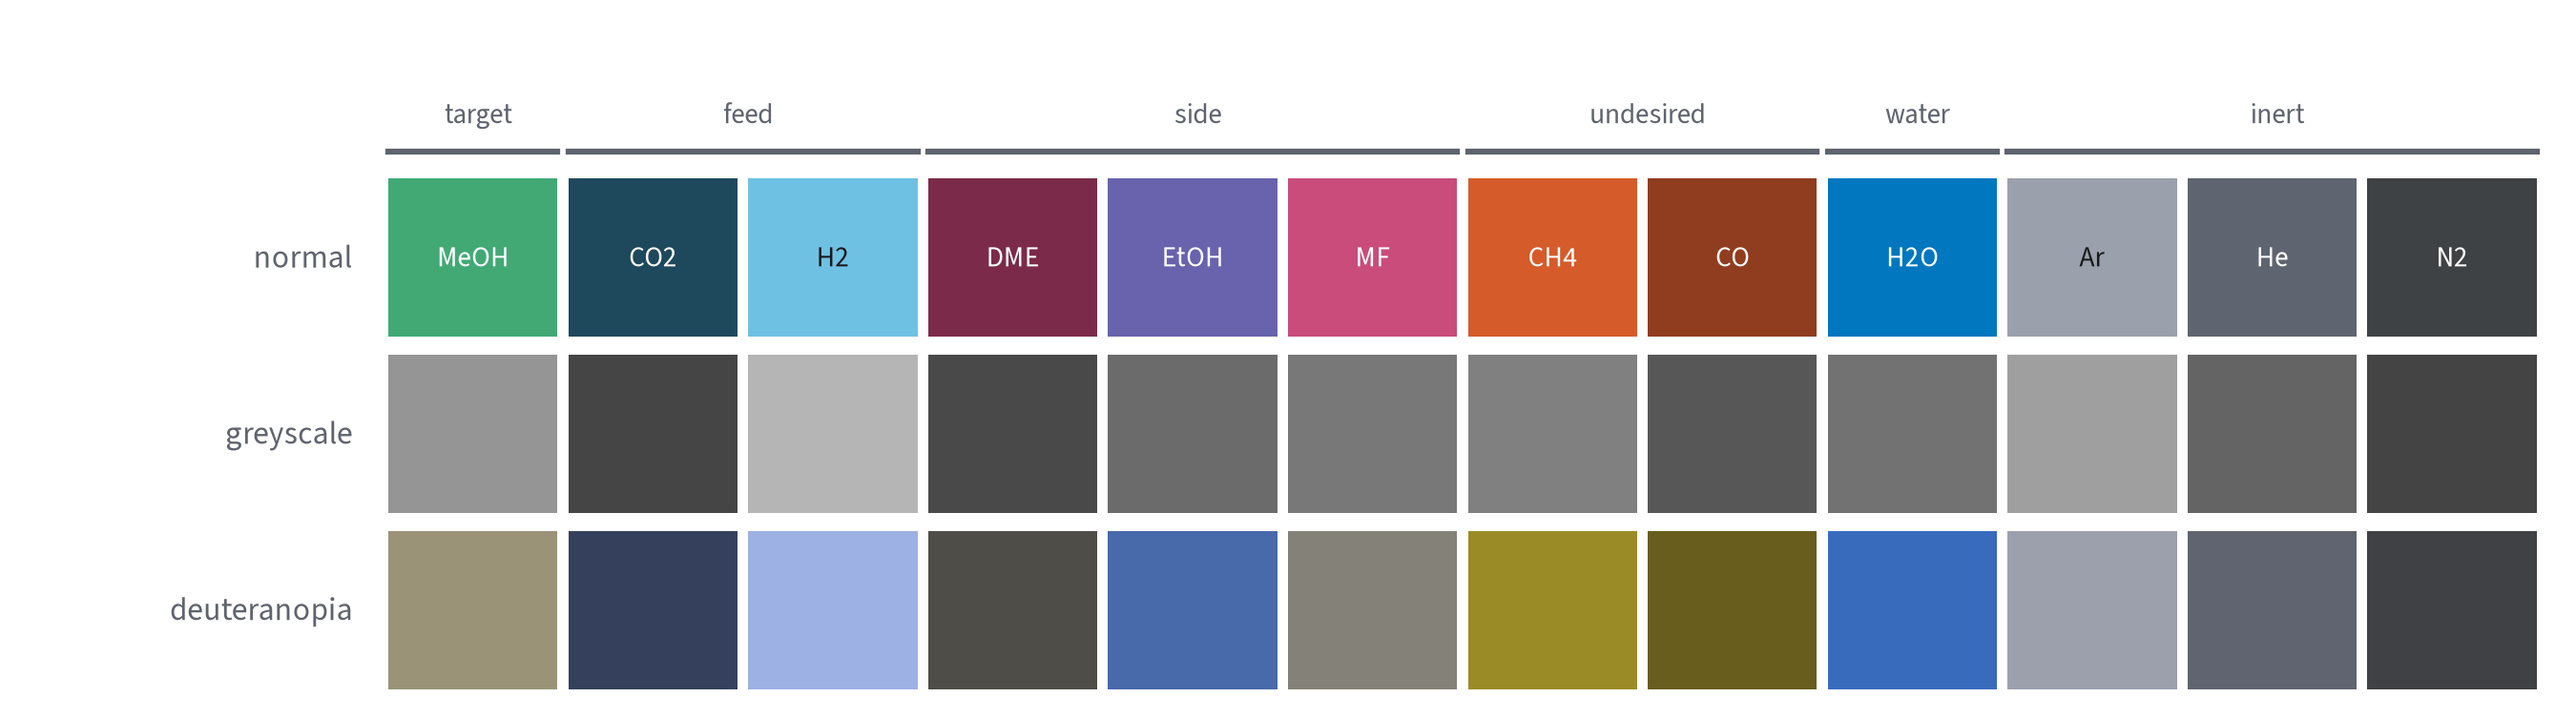
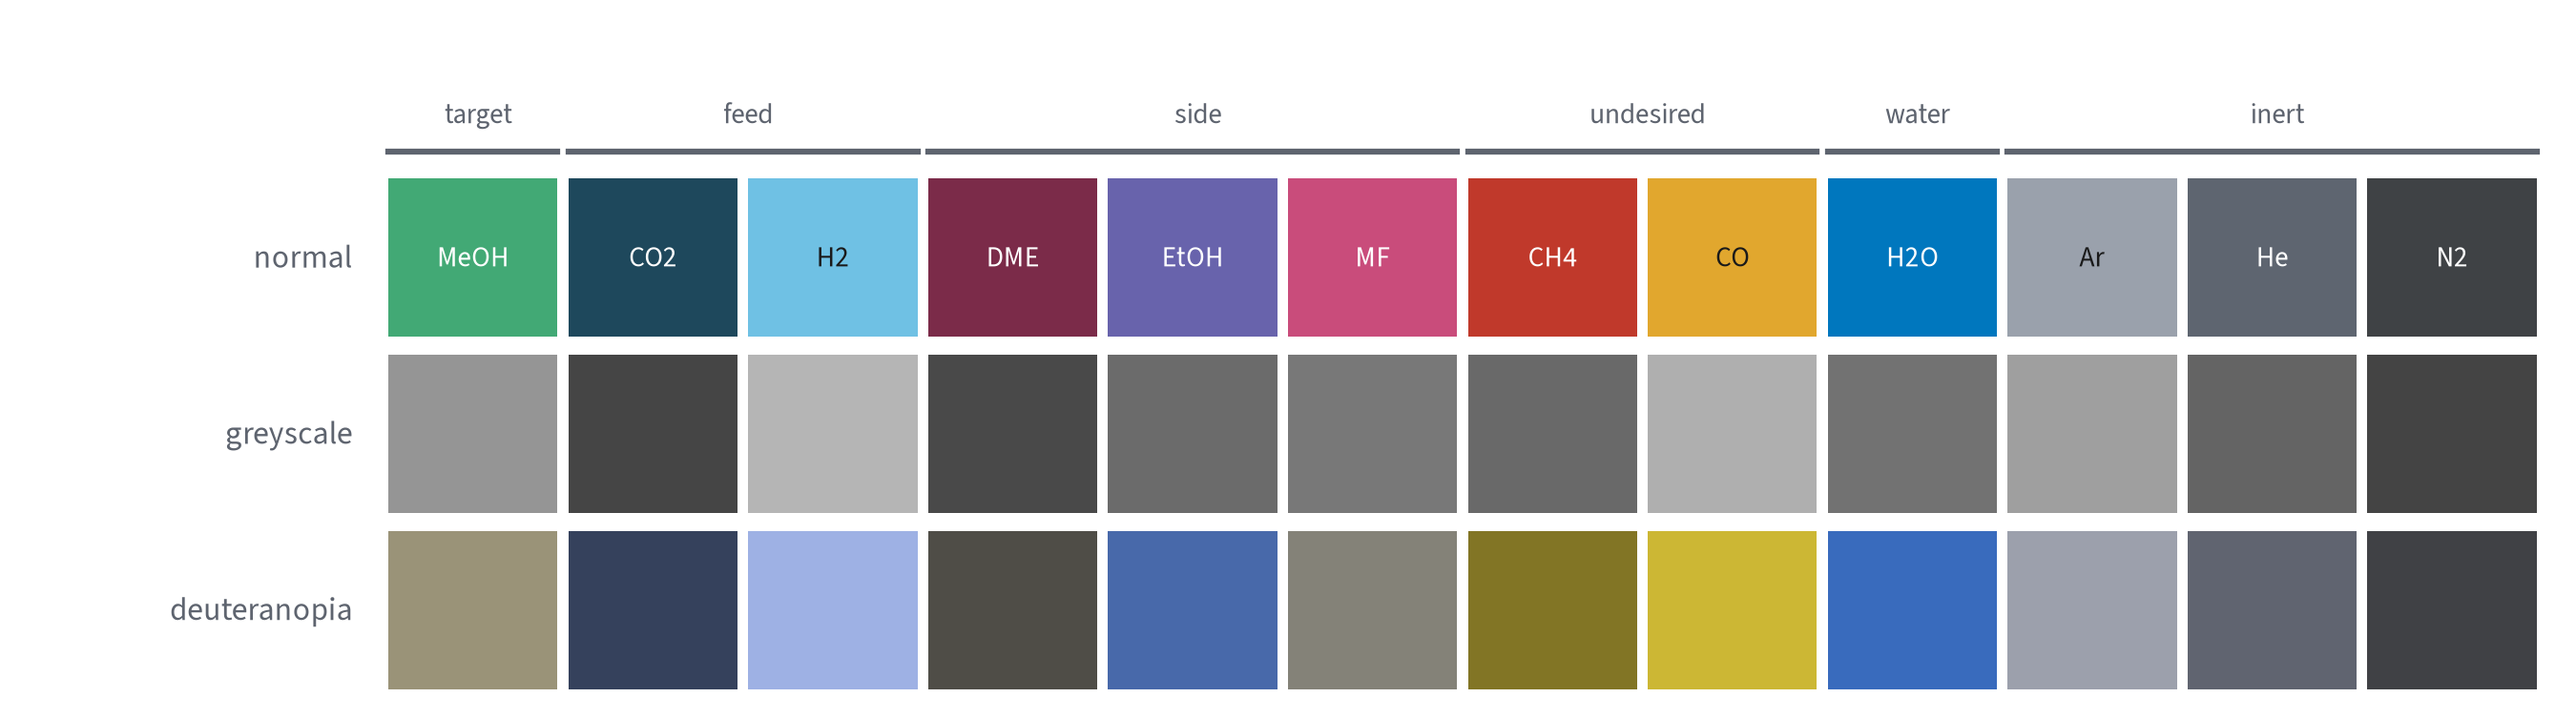
Give CH4/CO their own red/amber hues and free up orange
The two undesired species move off the scheme's orange to literal hues --
red for CH4 (the worst) and amber for CO (bad, but still a carbon oxide you
track) -- so the scheme's orange stays available as a general marking /
annotation colour. Regenerate the species preview.

Changed region(s): [[0.56, 0.2444, 0.7156, 0.9774]]

diff --git a/src/phd_ui/colors/base.py b/src/phd_ui/colors/base.py
@@ -12,18 +12,20 @@ also carry meaning rather than just identity:
     green         target product  MeOH  ("green methanol")
     blue          feed            CO2, H2
     purple/pink   side product    EtOH (purple), MF, DME (pink)
-    orange        undesired       CH4, CO
+    red / amber   undesired       CH4 (red, worst), CO (amber)
     ocean         water           H2O
     grey          inert           Ar, He, N2
     ============  ==============  =====================================
 
 This is a desirability gradient: cool = wanted, warm = not. The side
 products run from EtOH (purple, nearest the green target, being a valuable
-alcohol like methanol) through MF to DME (pink, nearest the undesired end),
-and CH4 is the clearest undesired, so it takes the vivid orange. Water is
-the one deliberate exception: it takes a literal **ocean blue** rather than
-a role colour, because H2O reads as blue. Species within a role are
-separated by tone (``base`` / ``dark`` / ``light`` / ``darkest``).
+alcohol like methanol) through MF to DME (pink, nearest the undesired end).
+The two undesired species get their own warm hues -- CH4 the vivid red as
+the worst, CO an amber -- which keeps the scheme's **orange free as a
+general marking / annotation colour**. Water is the one deliberate
+exception: a literal **ocean blue**, because H2O reads as blue. Species
+within a role are separated by tone (``base`` / ``dark`` / ``light`` /
+``darkest``).
 
 Because the colours are looked up from the scheme, editing a scheme hue
 moves every species of that role with it. ``SPECIES_COLORS`` keeps the
@@ -38,7 +40,6 @@ from phd_ui.colors.scheme import (
     BLUE,
     GREEN,
     GREY,
-    ORANGE,
     PINK,
     PURPLE,
     ColorFamily,
@@ -59,7 +60,7 @@ class Species:
     color : str
         Hex colour, resolved from the scheme (or a literal for water).
     role : str
-        Desirability role: one of ``'target'``, ``'feed'``, ``'other'``,
+        Desirability role: one of ``'target'``, ``'feed'``, ``'side'``,
         ``'undesired'``, ``'inert'`` or ``'water'``.
     family : str or None
         Name of the scheme hue the colour came from, or ``None`` for a
@@ -81,6 +82,12 @@ def _from(name: str, hue: ColorFamily, tone: str, role: str) -> Species:
 #: role scheme). Chosen to stay clear of the feed blues.
 OCEAN = "#0077BE"
 
+#: The two undesired species take their own warm hues so the scheme's orange
+#: stays free as a marking / annotation colour: red for CH4 (the worst),
+#: amber for CO (bad, but a carbon oxide you still track).
+RED = "#C0392B"
+AMBER = "#E1A72E"
+
 
 SPECIES: dict[str, Species] = {
     "MeOH": _from("MeOH", GREEN, "base", "target"),        # the target product
@@ -89,8 +96,8 @@ SPECIES: dict[str, Species] = {
     "EtOH": _from("EtOH", PURPLE, "base", "side"),         # side products, most
     "MF": _from("MF", PINK, "base", "side"),               #   to least desirable:
     "DME": _from("DME", PINK, "dark", "side"),             #   EtOH -> MF -> DME
-    "CH4": _from("CH4", ORANGE, "base", "undesired"),      # undesired (CH4 the main one)
-    "CO": _from("CO", ORANGE, "dark", "undesired"),
+    "CH4": Species("CH4", RED, "undesired"),               # undesired: CH4 worst (red),
+    "CO": Species("CO", AMBER, "undesired"),               #   CO amber (also a carbon oxide)
     "H2O": Species("H2O", OCEAN, "water", None),           # literal ocean blue
     "Ar": _from("Ar", GREY, "base", "inert"),              # inert carriers
     "He": _from("He", GREY, "dark", "inert"),
